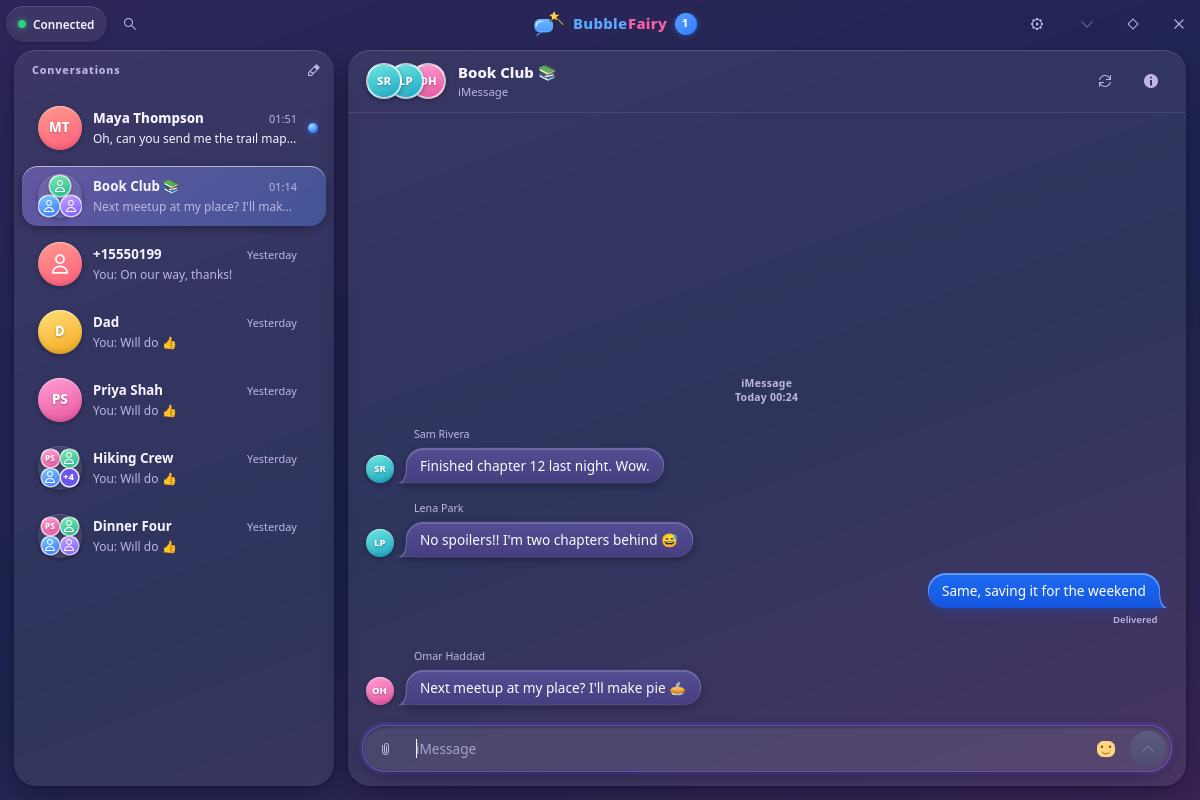
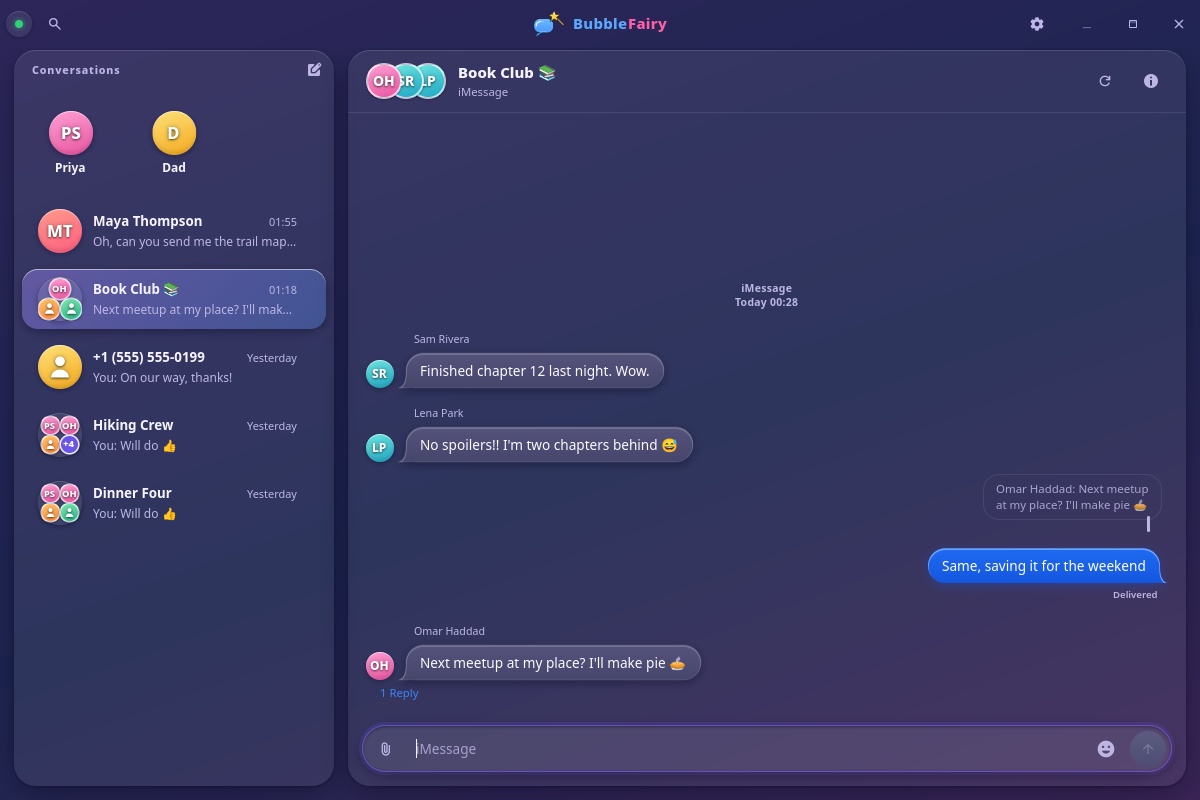
README: fresh screenshots and a theme grid

diff --git a/README.md b/README.md
@@ -7,28 +7,31 @@ It's a front end for Messages on your Mac, which still does the actual messaging
 [![Buy me a coffee](https://img.shields.io/badge/Buy%20me%20a%20coffee-teknocat-ffdd00?logo=buymeacoffee&logoColor=black)](https://buymeacoffee.com/teknocat)
 If BubbleFairy is useful to you, you can [buy me a coffee](https://buymeacoffee.com/teknocat).
 
-![BubbleFairy showing a group chat in light mode](docs/screenshots/chat-light.png)
+![BubbleFairy showing a conversation with files and reactions, in light mode](docs/screenshots/chat-light.png)
 
-<details>
-<summary>More screenshots (dark mode, files)</summary>
-
-<img src="docs/screenshots/chat-dark.png" alt="A group chat in dark mode">
-<img src="docs/screenshots/files.png" alt="Files, videos and contacts in a chat">
-
-</details>
-
-All the conversations in those screenshots are invented demo data. BubbleFairy was built with AI assistance, and the [AI disclosure](#ai-disclosure) below explains how.
+All the conversations in the screenshots here are invented demo data. BubbleFairy was built with AI assistance, and the [AI disclosure](#ai-disclosure) below explains how.
 
 Get the latest `.flatpak` from the [Releases](../../releases) page.
 
 ## What you get
 
-- **A proper chat window.** Photos, videos, link previews, files and group chats, with light and dark looks.
+- **A proper chat window.** Photos, videos, link previews, files and group chats.
+- **A look you can change**, in light, dark or whatever your system is set to, with sliders for the colours and for how glossy it all is.
 - **Notifications and sound**, including a tray icon if your desktop has one.
 - **Search** across all your messages, not just the chat you're in.
 - **Pinned and muted chats**, contact cards, and one entry per person even when Messages keeps several chats with them.
 - **Sending files**, by picking them, dragging them in or pasting.
 - **Privacy**, in that anything that would send data to a third party (map and link previews) is off until you turn it on.
+
+## Make it look how you like
+
+I got rather carried away with this part. Settings has sliders for tint, saturation, brightness and what I'm calling bubbliness, which goes from completely flat at one end to a shiny, glassy look at the other, and light and dark mode each remember their own. The blue and green bubbles stay as they are, so you can always tell what you're looking at, and it's entirely possible to come up with some ghastly combinations, which is your business. Here are a few of the nicer ones (click any of them for a bigger look).
+
+| | |
+| --- | --- |
+| ![The default dark look](docs/screenshots/chat-dark.png) | ![A glossy rose theme in light mode](docs/screenshots/theme-rose.png) |
+| ![A very glossy ocean blue theme in dark mode](docs/screenshots/theme-ocean.png) | ![A flat mint theme in light mode](docs/screenshots/theme-mint.png) |
+| ![A plum theme in dark mode](docs/screenshots/theme-plum.png) | ![A very glossy sky blue theme in light mode](docs/screenshots/theme-sky.png) |
 
 ## How it works
 
